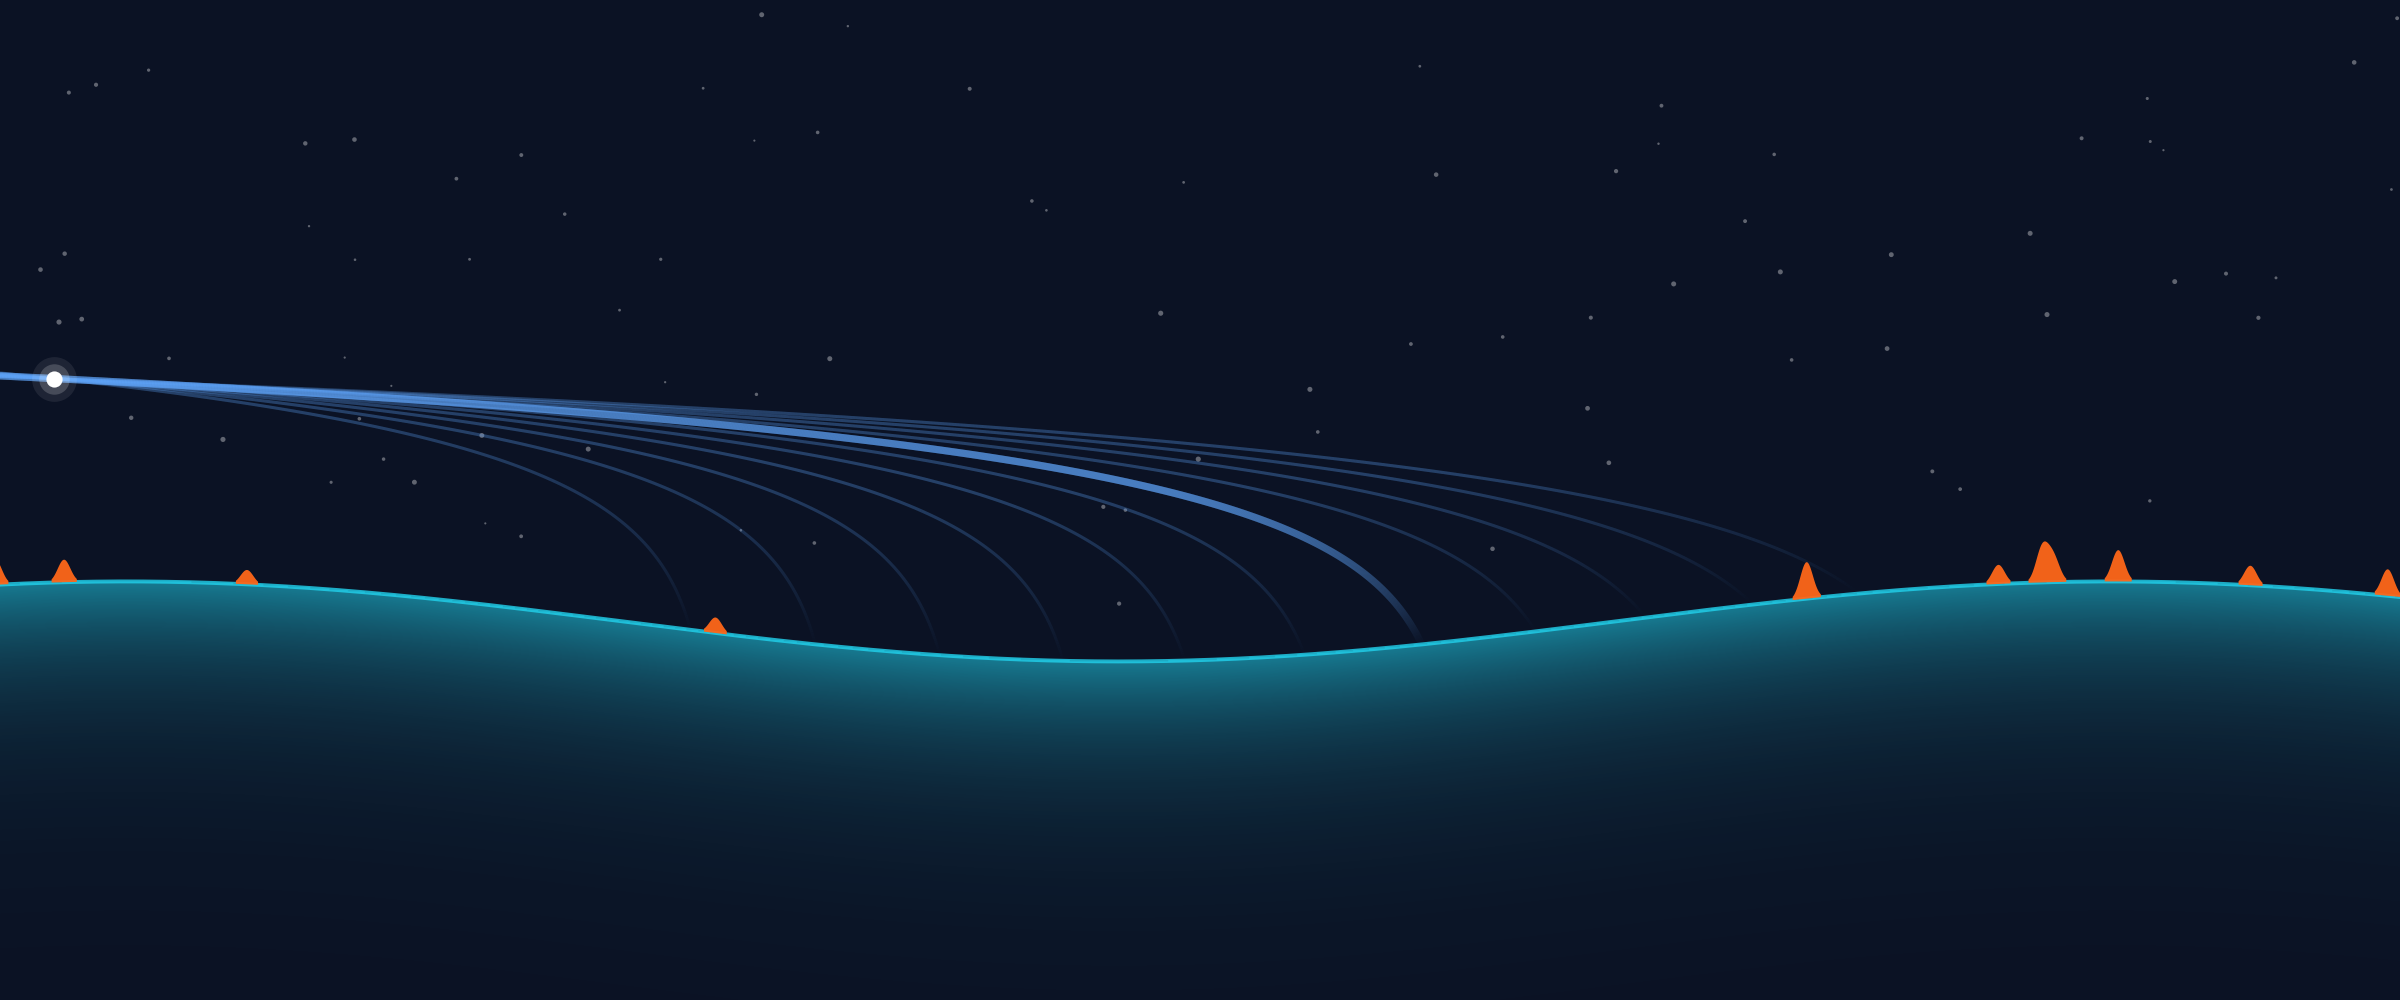
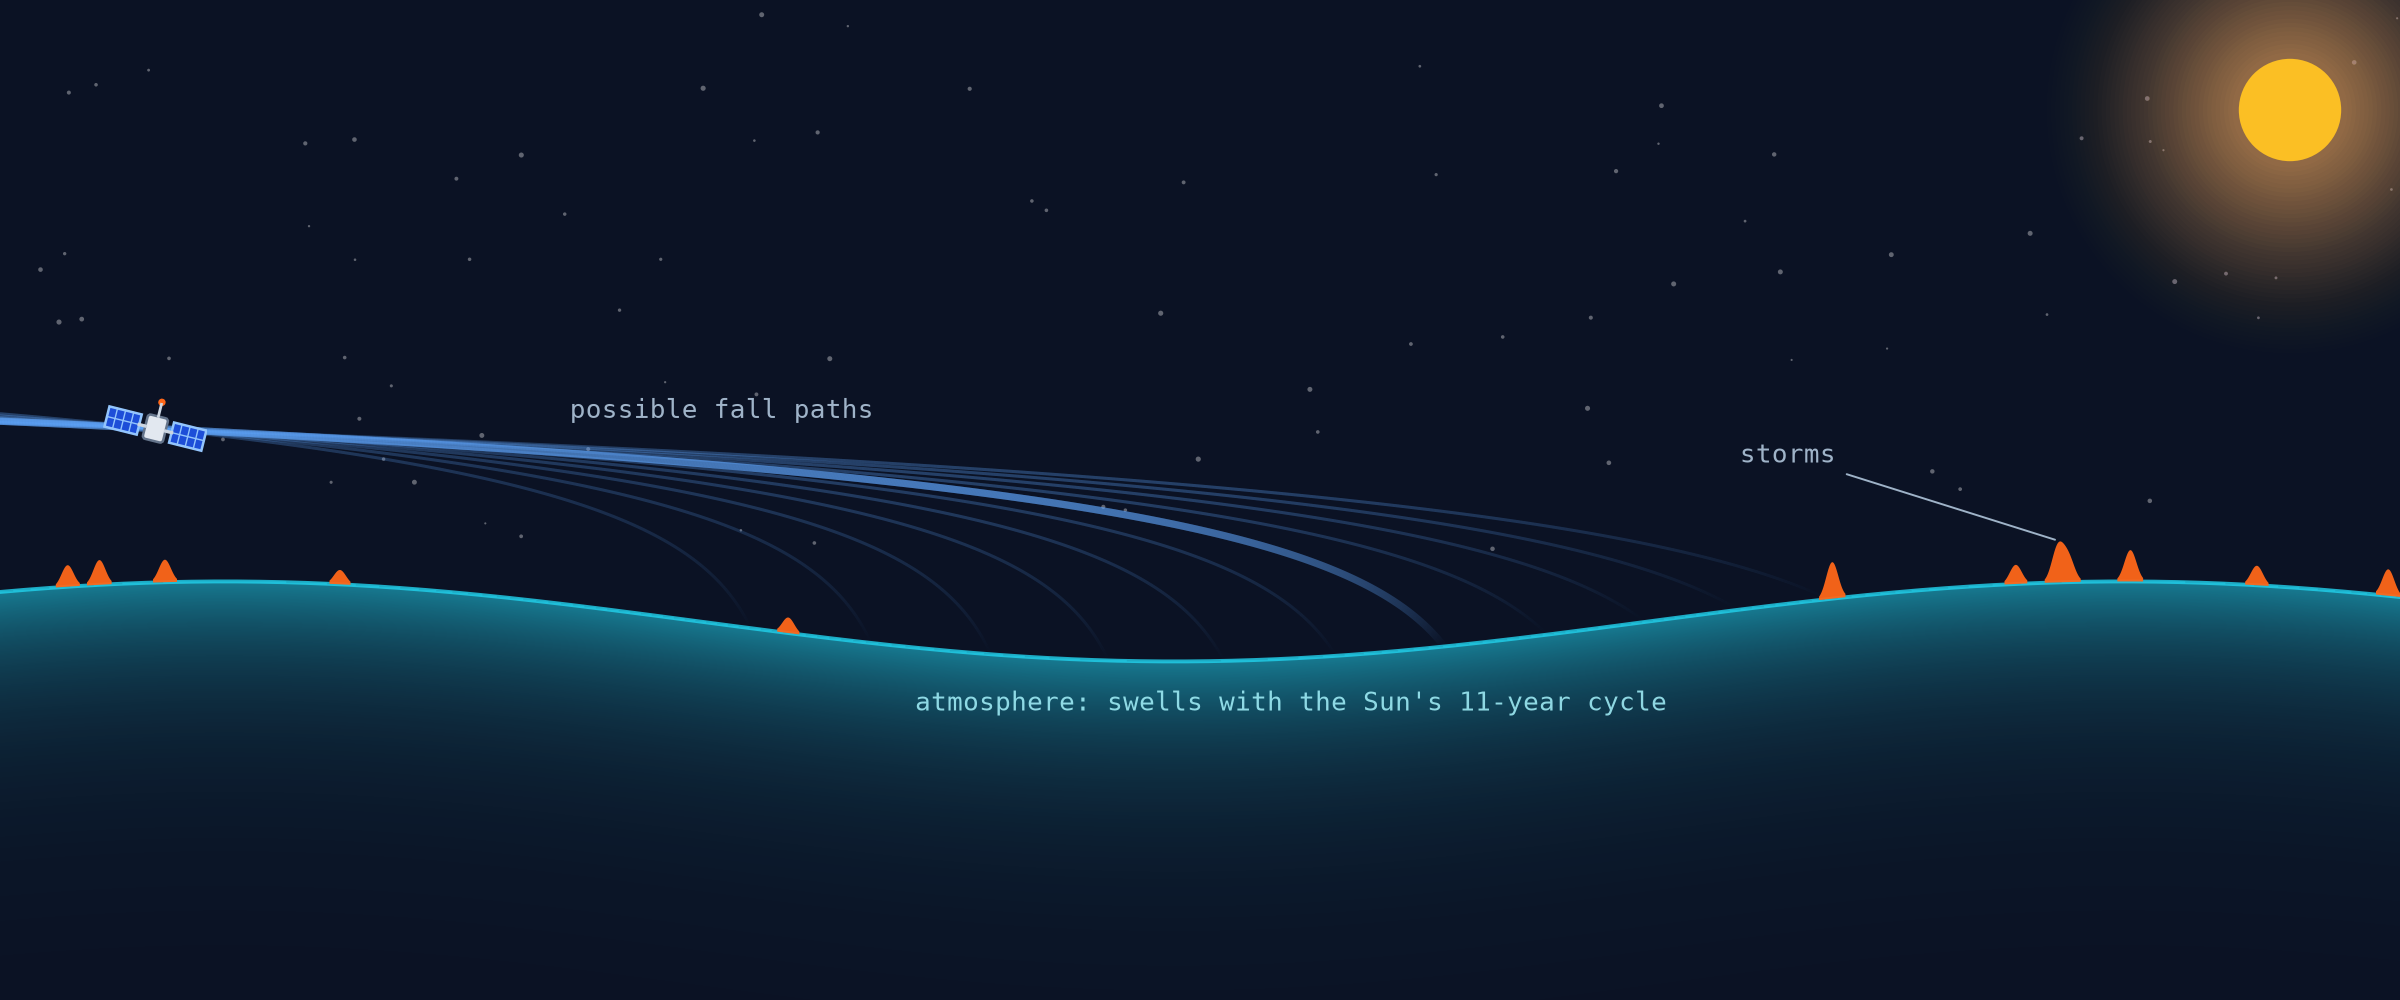
Cover: add a small satellite, the Sun as driver, and three labels
Claude-Session: https://claude.ai/code/session_014kD1rgFLZZApB2AjPd8KH7

diff --git a/scripts/cover.py b/scripts/cover.py
@@ -1,10 +1,10 @@
 """Cover art for the post: a schematic of drag, storms and the solar cycle (dark, for g15n.net).
 
-Not a chart: a picture of the idea. One satellite starts high on the left; its possible fall
+Not a chart: a picture of the idea. A small satellite starts high on the left; its possible fall
 paths fan out (blue), from a strong Sun that pulls it into the swollen atmosphere in ~3.6 years to
 a weak one that lets it last ~10.5 (the 550 km, Jan 2035 case in data/fan.csv). The atmosphere
 (bottom glow) breathes slowly with the eleven-year cycle; storms are the brief orange spikes on
-top of it.
+top of it. The Sun sits in the corner as the driver; three small labels name the parts.
 
 Run:  pixi run python scripts/cover.py     -> figures/cover.png (site card) + figures/og.png (share)
 """
@@ -13,8 +13,10 @@ import sys
 from pathlib import Path
 
 import numpy as np
+from matplotlib import patches
 from matplotlib.collections import LineCollection
 from matplotlib.figure import Figure
+from matplotlib.transforms import Affine2D
 
 sys.path.insert(0, str(Path(__file__).parent))
 import style  # noqa: E402
@@ -26,8 +28,10 @@ CYAN = "#22d3ee"  # the site's grid accent
 BLUE = "#60a5fa"  # style.BLUE, lifted for a dark ground
 ORANGE = style.ORANGE
 T_STRONG, T_FORECAST, T_WEAK = 3.62, 7.79, 10.48  # years, 550 km from Jan 2035 (data/fan.csv)
-Y0, SCALE = 0.635, 0.05  # start height and "scale height" of the schematic atmosphere
+Y0, SCALE = 0.60, 0.047  # start height and "scale height" of the schematic atmosphere
 YEARS = 13.0
+MONO = "DejaVu Sans Mono"  # echoes the site's monospace accents
+LABEL = "#9fb3c8"
 
 
 def edge(t: np.ndarray) -> np.ndarray:
@@ -49,7 +53,7 @@ def fall(t: np.ndarray, lifetime: float) -> np.ndarray:
 
 def draw(fig, ax, t, ed, cyc) -> None:
     ax.set_facecolor(BG)
-    ax.set_xlim(-0.3, YEARS)
+    ax.set_xlim(-0.9, YEARS)
     ax.set_ylim(0.20, 0.90)
     ax.axis("off")
     # atmosphere: a limb glow, brightest at its top edge and fading with depth
@@ -90,20 +94,113 @@ def draw(fig, ax, t, ed, cyc) -> None:
             zorder=3,
         )
         ax.add_collection(lc)
-    # the satellite
-    for r, a in ((260, 0.08), (120, 0.18), (34, 1.0)):
-        ax.scatter([0], [Y0], s=r, color="white", alpha=a, lw=0, zorder=5)
+    satellite(fig, ax, 0.0, Y0)
+    sun(fig)
+    labels(ax, t, ed, cyc)
     # a few stars
     rng = np.random.default_rng(11)
-    sx, sy = rng.uniform(-0.3, YEARS, 110), rng.uniform(0.40, 0.90, 110)
+    sx, sy = rng.uniform(-0.9, YEARS, 110), rng.uniform(0.40, 0.90, 110)
     keep = sy > np.interp(sx, t, cyc) + 0.04
     ax.scatter(
         sx[keep], sy[keep], s=rng.uniform(0.5, 3.5, keep.sum()), color="white", alpha=0.35, lw=0
     )
 
 
+def _inset(fig, ax, x: float, y: float, size_in: float):
+    """An equal-aspect axes centred on data point (x, y), `size_in` inches wide."""
+    fx, fy = fig.transFigure.inverted().transform(ax.transData.transform((x, y)))
+    w, h = fig.get_size_inches()
+    sub = fig.add_axes((fx - size_in / w / 2, fy - size_in / h / 2, size_in / w, size_in / h))
+    sub.set_xlim(0, 1)
+    sub.set_ylim(0, 1)
+    sub.set_aspect("equal")
+    sub.axis("off")
+    sub.patch.set_alpha(0)
+    return sub
+
+
+def satellite(fig, ax, x: float, y: float) -> None:
+    """A small cartoon CubeSat: body, two solar wings, an antenna; tilted as if tumbling in."""
+    sub = _inset(fig, ax, x, y, 0.52)
+    tilt = Affine2D().rotate_deg_around(0.5, 0.5, -14) + sub.transData
+    for x0 in (0.02, 0.66):  # solar wings with a cell grid
+        sub.add_patch(
+            patches.Rectangle(
+                (x0, 0.40),
+                0.32,
+                0.20,
+                facecolor="#1d4ed8",
+                edgecolor="#93c5fd",
+                lw=0.9,
+                transform=tilt,
+            )
+        )
+        for k in (1, 2, 3):
+            sub.plot([x0 + 0.08 * k] * 2, [0.40, 0.60], color="#93c5fd", lw=0.5, transform=tilt)
+        sub.plot([x0, x0 + 0.32], [0.50, 0.50], color="#93c5fd", lw=0.5, transform=tilt)
+    sub.plot([0.34, 0.40], [0.5, 0.5], color="#cbd5e1", lw=1.2, transform=tilt)
+    sub.plot([0.60, 0.66], [0.5, 0.5], color="#cbd5e1", lw=1.2, transform=tilt)
+    sub.add_patch(
+        patches.FancyBboxPatch(
+            (0.40, 0.38),
+            0.20,
+            0.24,
+            boxstyle="round,pad=0,rounding_size=0.03",
+            facecolor="#e2e8f0",
+            edgecolor="#64748b",
+            lw=0.9,
+            transform=tilt,
+        )
+    )
+    sub.plot([0.5, 0.5], [0.62, 0.74], color="#cbd5e1", lw=1.0, transform=tilt)
+    sub.add_patch(patches.Circle((0.5, 0.76), 0.022, color=ORANGE, transform=tilt))
+
+
+def sun(fig) -> None:
+    """The driver, half off the top-right corner: a warm glow, no rays needed."""
+    w, h = fig.get_size_inches()
+    size = 0.8  # inches: the disc; the glow spills past the axes (clip_on=False)
+    cx, cy = 1 - 0.55 / w, 1 - 0.55 / h
+    sub = fig.add_axes((cx - size / w / 2, cy - size / h / 2, size / w, size / h), zorder=0)
+    sub.set_xlim(0, 1)
+    sub.set_ylim(0, 1)
+    sub.set_aspect("equal")
+    sub.axis("off")
+    sub.patch.set_alpha(0)
+    for r, a in zip(np.linspace(1.6, 0.36, 48), np.linspace(0.004, 0.035, 48), strict=True):
+        sub.add_patch(patches.Circle((0.5, 0.5), r, color="#fdba74", alpha=a, lw=0, clip_on=False))
+    sub.add_patch(patches.Circle((0.5, 0.5), 0.32, color="#fbbf24", lw=0, clip_on=False))
+
+
+def labels(ax, t, ed, cyc) -> None:
+    """Three quiet labels so the picture reads without the article."""
+    kw = dict(family=MONO, fontsize=9.5, color=LABEL, zorder=6)
+    ax.text(2.4, 0.603, "possible fall paths", ha="left", va="bottom", **kw)
+    x_atm = 4.4
+    ax.text(
+        x_atm,
+        np.interp(x_atm, t, cyc) - 0.03,
+        "atmosphere: swells with the Sun's 11-year cycle",
+        ha="left",
+        va="top",
+        **{**kw, "color": "#a5f3fc", "alpha": 0.85},
+    )
+    window = (t > 9.5) & (t < 12.8)
+    i = np.flatnonzero(window)[np.argmax((ed - cyc)[window])]
+    ax.annotate(
+        "storms",
+        (t[i], ed[i]),
+        xytext=(t[i] - 1.3, ed[i] + 0.06),
+        textcoords="data",
+        ha="right",
+        va="center",
+        arrowprops=dict(arrowstyle="-", color=LABEL, lw=0.7),
+        **kw,
+    )
+
+
 def main() -> None:
-    t = np.linspace(-0.3, YEARS, 4000)
+    t = np.linspace(-0.9, YEARS, 4000)
     ed, cyc = edge(t)
 
     fig = Figure(figsize=(12, 5), facecolor=BG)
